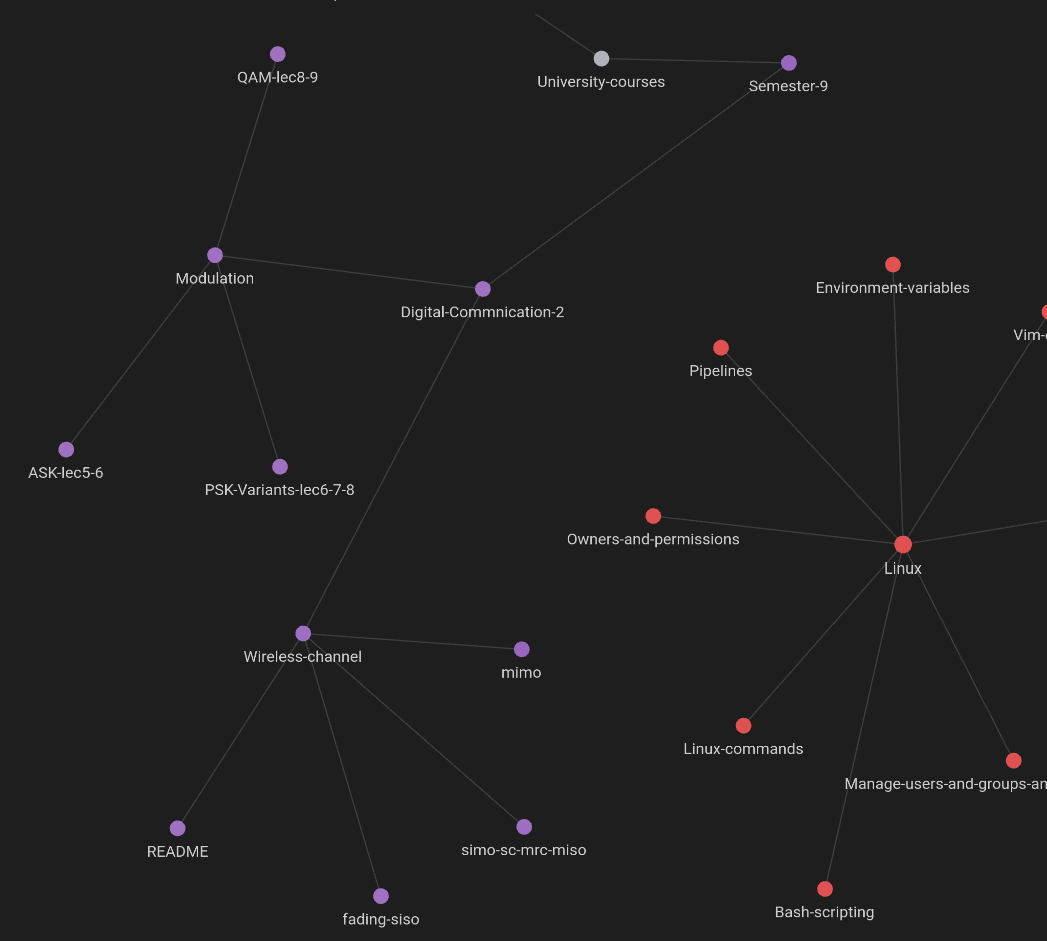
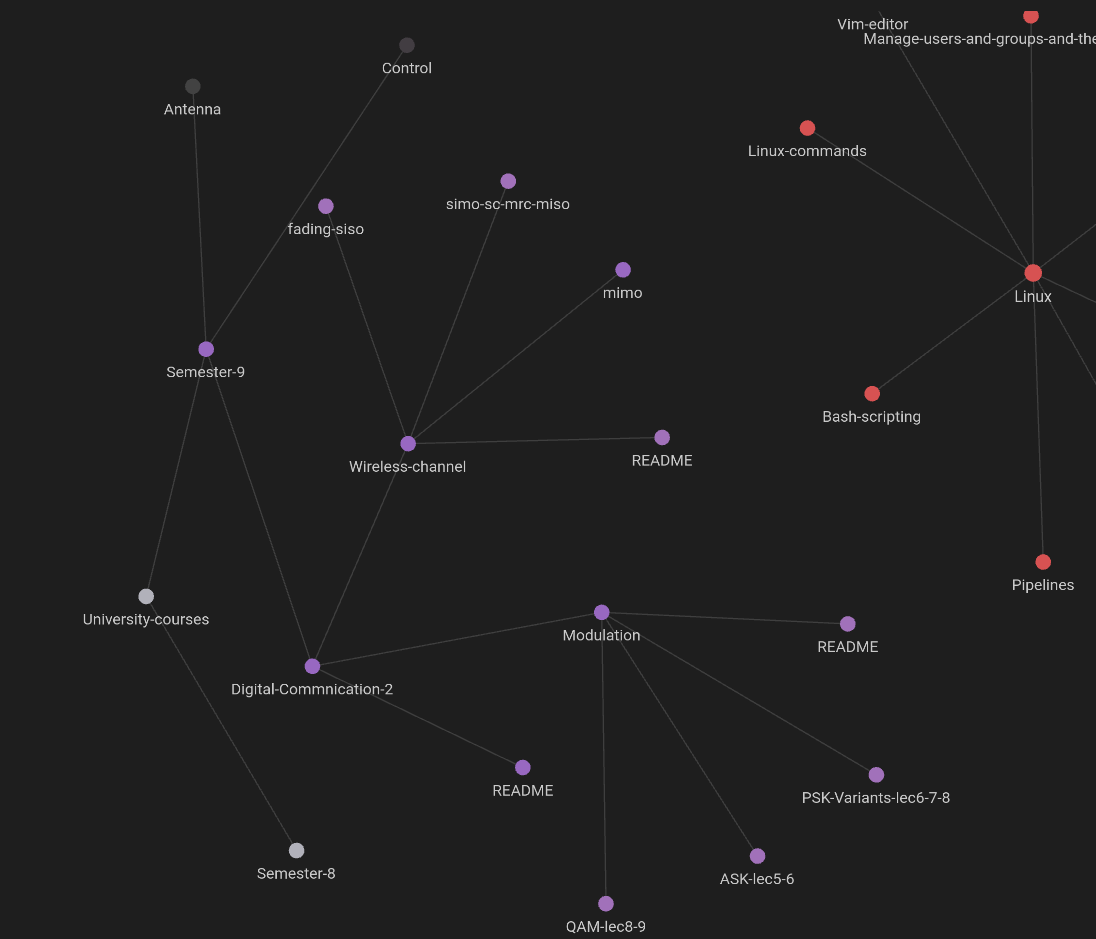
add readme to digital communication

diff --git a/University-Courses/Semester-9/Digital-Commnication-2/README.md b/University-Courses/Semester-9/Digital-Commnication-2/README.md
@@ -8,7 +8,7 @@ tags:
 date: 2023-01-16
 ---
 
-![](graph2.png)
+![](University-Courses/Semester-9/Digital-Commnication-2/graph.png)
 
 ### Here are `digitally written pdf` files for different lecture topics in dr.Karem part like:
 - `Signal space` in lec4 and lec5

diff --git a/University-Courses/Semester-9/Digital-Commnication-2/Modulations/README.md b/University-Courses/Semester-9/Digital-Commnication-2/Modulations/README.md
@@ -8,7 +8,7 @@ date: 2023-01-16
 ---
 
 
-![](../graph2.png)
+![](University-Courses/Semester-9/Digital-Commnication-2/graph.png)
 
 # ASK
 ![](modulations-images/ask-1.png)

diff --git a/University-Courses/Semester-9/Digital-Commnication-2/Wireless-channel/README.md b/University-Courses/Semester-9/Digital-Commnication-2/Wireless-channel/README.md
@@ -8,7 +8,7 @@ date: 2023-01-16
 ---
 
 
-![](../graph2.png)
+![](University-Courses/Semester-9/Digital-Commnication-2/graph.png)
 
 ## mimo1-fading-siso
 

diff --git a/University-Courses/Semester-9/README.md b/University-Courses/Semester-9/README.md
@@ -1,0 +1,10 @@
+---
+tags:
+- Eng
+- uni/semester-9
+
+date: 2023-01-19
+---
+
+
+![](../graph.png)

diff --git a/University-Courses/README.md b/University-Courses/README.md
@@ -1,0 +1,11 @@
+---
+tags:
+- Eng
+- uni
+
+
+date: 2023-01-19
+---
+
+
+![](graph.png)
